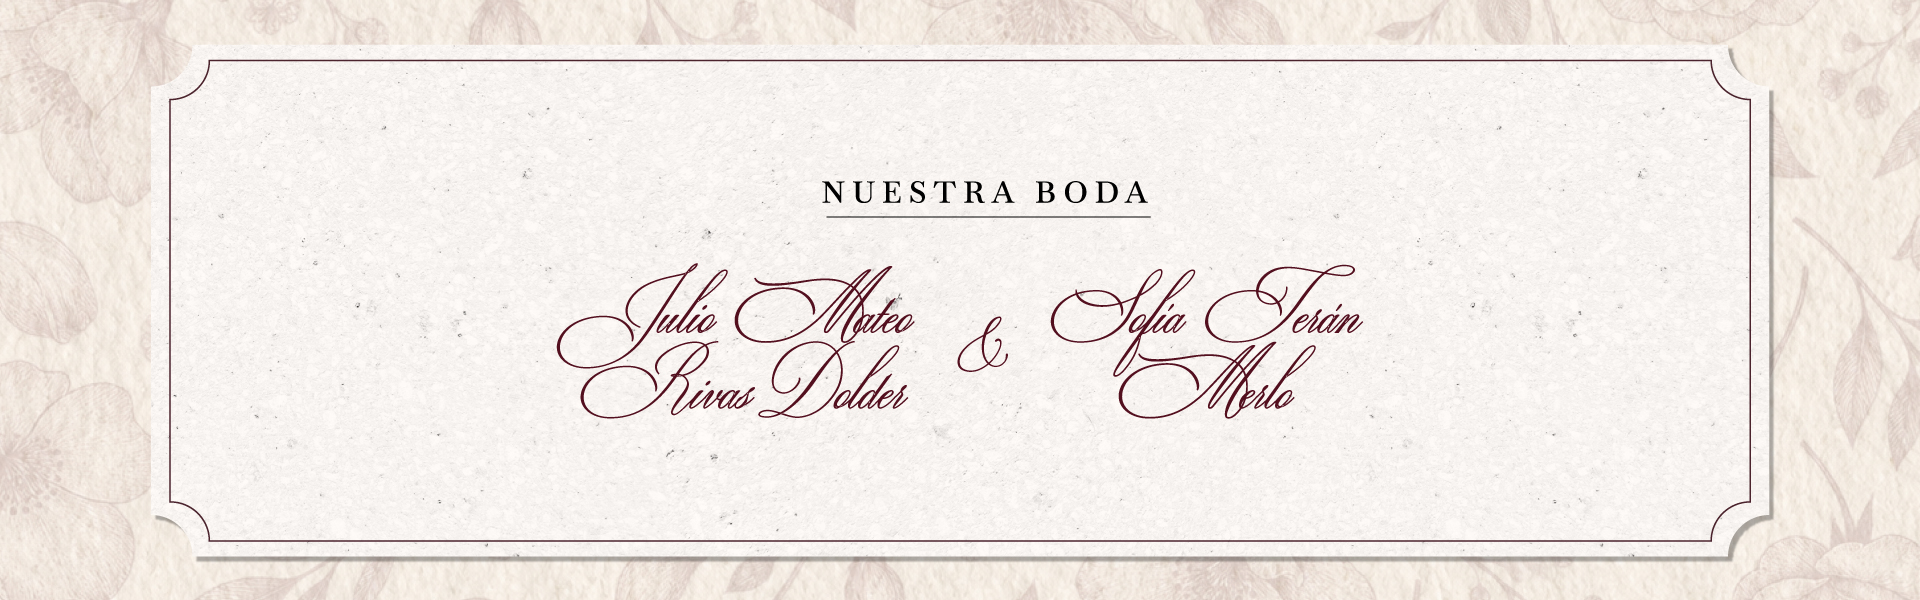
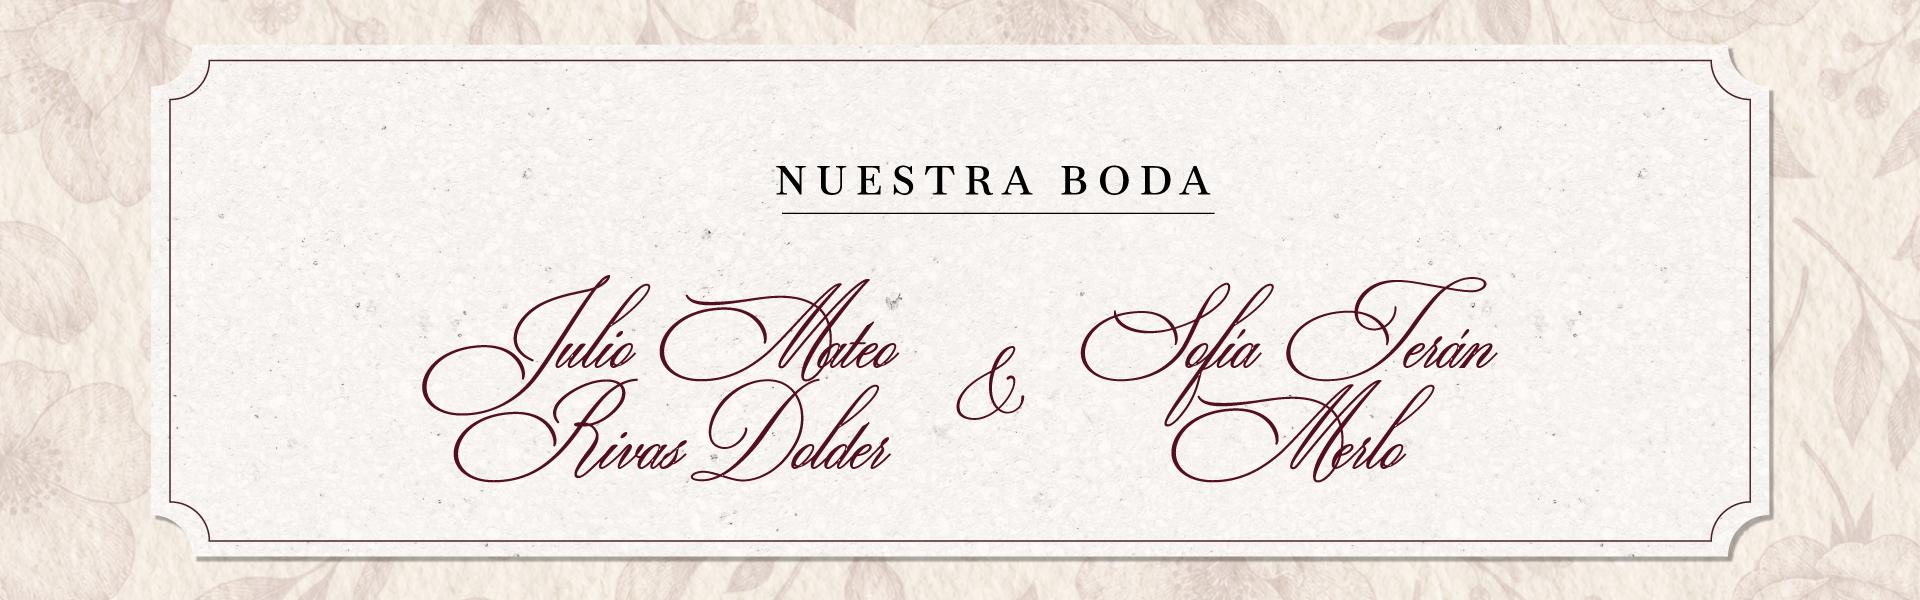
Add files via upload

diff --git a/index.html b/index.html
@@ -253,12 +253,10 @@
        detalle         = Texto complementario (dirección, nota, referencia, etc.)
        imagen          = URL o nombre de archivo de la imagen del lugar
        sitioWeb        = Enlace del botón "Sitio web"
-       googleMapsUrl   = Enlace del botón "Cómo llegar"
 
        IMPORTANTE:
        - Si "imagen" está vacío, no se mostrará imagen en el popup.
        - Si "sitioWeb" está vacío, no se mostrará el botón "Sitio web".
-       - Si "googleMapsUrl" está vacío, no se mostrará el botón "Cómo llegar".
 
        Ejemplo:
        {
@@ -269,7 +267,6 @@
          detalle: "Centro histórico de Quito",
          imagen: "basilica.jpg",
          sitioWeb: "https://www.ejemplo.com",
-         googleMapsUrl: "https://maps.google.com/?q=-0.215000,-78.500000"
        }
     */
 
@@ -279,21 +276,18 @@
         lat: 0.234000,                 // <-- CAMBIAR LATITUD
         lng: -78.265000,               // <-- CAMBIAR LONGITUD
         tipo: "ceremonia",
-        detalle: "",                   // <-- OPCIONAL: dirección o información complementaria
+        detalle: "Falta incluir dirección",                   // <-- OPCIONAL: dirección o información complementaria
         imagen: "",                    // <-- OPCIONAL: imagen del lugar
         sitioWeb: "",                  // <-- OPCIONAL: sitio web oficial
-        googleMapsUrl: ""              // <-- OPCIONAL: enlace de Google Maps
       },
       {
         nombre: "Recepción",
         lat: 0.228000,
         lng: -78.260000,
         tipo: "recepcion",
-        detalle: "",
+        detalle: "Falta incluir dirección",
         imagen: "",
-        sitioWeb: "",
-        googleMapsUrl: ""
-      },
+        sitioWeb: "",},
       {
         nombre: "Hostería Cabañas del Lago",
         lat: 0.2104962003018956,
@@ -301,9 +295,7 @@
         tipo: "hospedaje",
         detalle: "",
         imagen: "hospedaje_cabana-del-lago.jpg",
-        sitioWeb: "https://cabanasdellago.com.ec/",
-        googleMapsUrl: "https://maps.app.goo.gl/ydgtGhNCWg7Dg9pJ9"
-      },
+        sitioWeb: "https://cabanasdellago.com.ec/",},
       {
         nombre: "Hacienda Cusín",
         lat: 0.19233357531539888,
@@ -311,9 +303,7 @@
         tipo: "hospedaje",
         detalle: "",
         imagen: "hospedaje_hacienda-cusin.jpg",
-        sitioWeb: "https://www.haciendacusin.com/",
-        googleMapsUrl: "https://maps.app.goo.gl/Awdyc6VJ4Qx11S2v5"
-      },
+        sitioWeb: "https://www.haciendacusin.com/",},
       {
         nombre: "Hostería PuertoLago",
         lat: 0.20147294641812175,
@@ -321,9 +311,7 @@
         tipo: "hospedaje",  
         detalle: "",
         imagen: "hospedaje_puerto-lago.jpg",
-        sitioWeb: "https://www.puertolago.com/",
-        googleMapsUrl: "https://maps.app.goo.gl/SWKqVFBPCSXDHwJi9"
-      },
+        sitioWeb: "https://www.puertolago.com/",},
       {
         nombre: "Hotel Otavalo",
         lat: 0.225165888574998,
@@ -331,9 +319,7 @@
         tipo: "hospedaje",  
         detalle: "",
         imagen: "hospedaje_hotel-otavalo.jpg",
-        sitioWeb: "https://hotelotavalo.com/",
-        googleMapsUrl: "https://maps.app.goo.gl/AicHKQnxWUYbmqh48"
-      },
+        sitioWeb: "https://hotelotavalo.com/",},
       {
         nombre: "Hacienda Pinsaquí",
         lat: 0.27932950259569195,
@@ -341,9 +327,7 @@
         tipo: "hospedaje",
         detalle: "",
         imagen: "hospedaje_Hacienda-Pinsaqui.jpg",
-        sitioWeb: "https://www.haciendapinsaqui.com/",
-        googleMapsUrl: "https://maps.app.goo.gl/MCdu2izUJ6G1uNtMA"
-      },
+        sitioWeb: "https://www.haciendapinsaqui.com/",},
       {
         nombre: "Hotel El Indio Inn",
         lat: 0.22696217354341264,
@@ -351,9 +335,7 @@
         tipo: "hospedaje",
         detalle: "",
         imagen: "hospedaje_Indio-Inn.jpg",
-        sitioWeb: "https://www.hotelelindioinn.com/",
-        googleMapsUrl: "https://maps.app.goo.gl/fTpF7eZwthdfq8ty9"
-      }
+        sitioWeb: "https://www.hotelelindioinn.com/",}
     ];
 
     /* ============================================================
@@ -392,9 +374,11 @@
         ? `<a class="popup-button" href="${lugar.sitioWeb}" target="_blank" rel="noopener noreferrer">Sitio web</a>`
         : "";
 
-      const directionsButton = lugar.googleMapsUrl
-        ? `<a class="popup-button secondary" href="${lugar.googleMapsUrl}" target="_blank" rel="noopener noreferrer">Cómo llegar</a>`
-        : "";
+      const googleDirectionsUrl =
+        `https://www.google.com/maps/dir/?api=1&destination=${lugar.lat},${lugar.lng}`;
+
+      const directionsButton =
+        `<a class="popup-button secondary" href="${googleDirectionsUrl}" target="_blank" rel="noopener noreferrer">Cómo llegar</a>`;
 
       const actionsHtml = (websiteButton || directionsButton)
         ? `<div class="popup-actions">${websiteButton}${directionsButton}</div>`
